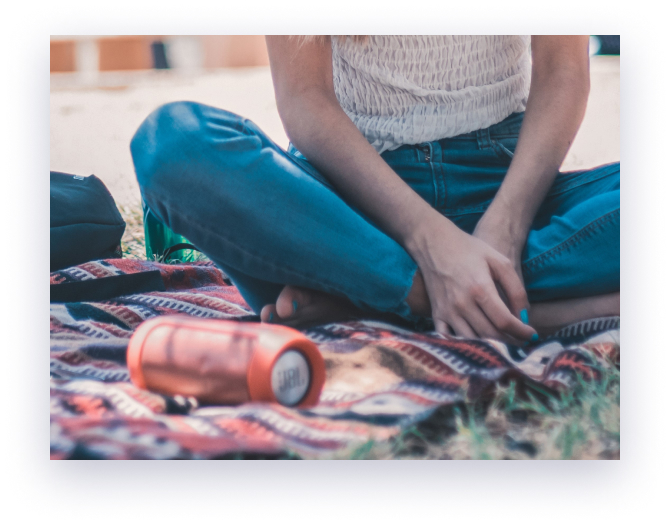
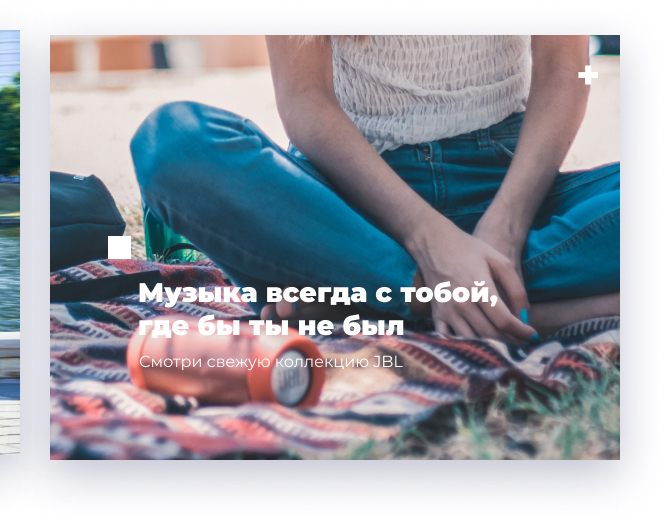
fixed layuot

diff --git a/assets/css/main.css b/assets/css/main.css
@@ -570,7 +570,7 @@ body {
 --------------------------- */
 .hot-slider {
 	margin: 100px auto;
-	width: fit-content;
+	/* width: fit-content; */
 }
 .hot-slider .head {
 	margin: 0 0 104px 0;
@@ -714,21 +714,16 @@ body {
 .offers {
 	display: flex;
 	align-items: center;
-}
-.offers .card {
-	overflow: hidden;
-	position: relative;
-	min-width: 530px;
-	height: 425px;
-	margin: 20px;
-	position: relative;
-	object-fit: cover;
-	padding: 208px 150px 121px 73px;
 	justify-content: space-between;
 	margin: 0 -15px;
 }
 .offers__column {
 	padding: 0 15px;
+}
+.offers .card {
+	position: relative;
+	object-fit: cover;
+	padding: 208px 150px 121px 73px;
 }
 
 .offers img {
@@ -766,13 +761,13 @@ body {
 .catalog__columns {
 	display: flex;
 	flex-wrap: wrap;
-	margin: 0 -15px;
-	max-height: 1050px;
+	margin: 0 -8px;
+	max-height: 1585px;
 	overflow: hidden;
 }
 .catalog__column {
 	flex: 1 0 25%;
-	padding: 5px 15px;
+	padding: 5px 8px;
 	margin: 0 0 27px 0;
 }
 

diff --git a/parts/page.php b/parts/page.php
@@ -52,7 +52,7 @@
 					JOIN product ON id_product = product.id
 					JOIN category ON id_category = category.id
 					JOIN maker ON id_maker = maker.id
-					LIMIT 4";
+					LIMIT 8";
 					$result = mysqli_query($conn, $sql);
 					while ($row = $result->fetch_assoc()) : ?>
 					<div class="hot-slider__column">
@@ -87,15 +87,17 @@
 				<div class="card">
 					<img src="assets/img/offer-backgraund.png">
 					<div class="bg-gradient"></div>
-					<h1>Надходження новых гаджетів</h1>
+					<h2>Надходження новых гаджетів</h2>
+					<h3>Электротранспорт снова в моде</h3>
 				</div>
 			</div>
 
 			<div class="offers__column">
 				<div class="card">
-					<img src="assets/img/offer-backgraund.png">
+					<img src="assets/img/offer-backgraund-2.png">
 					<div class="bg-gradient"></div>
-					<h1>Надходження новых гаджетів</h1>
+					<h2>Надходження новых гаджетів</h2>
+					<h3>Электротранспорт снова в моде</h3>
 				</div>
 			</div>
 		</section>

diff --git a/configs/connect.php b/configs/connect.php
@@ -1,7 +1,7 @@
 <?php
     $host = 'localhost';
     $username = 'root';
-    $pass = 'root';
+    $pass = '';
     $db = 'tech_store';
 
     $conn = mysqli_connect($host, $username, $pass, $db);
